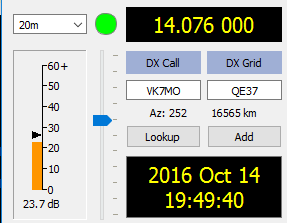
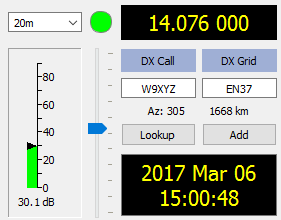
Code cleanup following level meter changes.  New screen shot for main-left controls.
git-svn-id: svn+ssh://svn.code.sf.net/p/wsjt/wsjt/branches/wsjtx@7597 ab8295b8-cf94-4d9e-aec4-7959e3be5d79

diff --git a/mainwindow.cpp b/mainwindow.cpp
@@ -66,7 +66,8 @@
 extern "C" {
   //----------------------------------------------------- C and Fortran routines
   void symspec_(struct dec_data *, int* k, int* ntrperiod, int* nsps, int* ingain,
-                int* minw, float* px, float s[], float* df3, int* nhsym, int* npts8, float *rmsnogain, float *m_pxmax);
+                int* minw, float* px, float s[], float* df3, int* nhsym, int* npts8,
+                float *m_pxmax);
 
   void hspec_(short int d2[], int* k, int* nutc0, int* ntrperiod, int* nrxfreq, int* ntol,
               bool* bmsk144, bool* bcontest, bool* btrain, double const pcoeffs[], int* ingain,
@@ -266,7 +267,6 @@ MainWindow::MainWindow(QDir const& temp_directory, bool multiple,
   m_ihsym {0},
   m_nzap {0},
   m_px {0.0},
-  m_rmsNoGain {0.0},
   m_iptt0 {0},
   m_btxok0 {false},
   m_nsendingsh {0},
@@ -1162,13 +1162,10 @@ void MainWindow::dataSink(qint64 frames)
   int nsps=m_nsps;
   if(m_bFastMode) nsps=6912;
   int nsmo=m_wideGraph->smoothYellow()-1;
-  symspec_(&dec_data,&k,&trmin,&nsps,&m_inGain,&nsmo,&m_px,s,&m_df3,&m_ihsym,&m_npts8,&m_rmsNoGain,&m_pxmax);
+  symspec_(&dec_data,&k,&trmin,&nsps,&m_inGain,&nsmo,&m_px,s,&m_df3,&m_ihsym,&m_npts8,&m_pxmax);
   if(m_mode=="WSPR") wspr_downsample_(dec_data.d2,&k);
   if(m_ihsym <=0) return;
-  QString t;
-  m_pctZap=m_nzap*100.0/m_nsps; // TODO: this is currently redundant
-  t.sprintf(" Rx noise: %5.1f ",m_px);
-  if (ui) ui->signal_meter_widget->setValue(m_rmsNoGain,m_pxmax); // Update thermometer
+  if(ui) ui->signal_meter_widget->setValue(m_px,m_pxmax); // Update thermometer
   if(m_monitoring || m_diskData) {
     m_wideGraph->dataSink2(s,m_df3,m_ihsym,m_diskData);
   }

diff --git a/mainwindow.h b/mainwindow.h
@@ -439,13 +439,11 @@ private:
   bool    m_bDoubleClicked;
   bool    m_bHideControls;
 
-  float   m_pctZap;
   int			m_ihsym;
   int			m_nzap;
   int			m_npts8;
   float		m_px;
-  float     m_pxmax;
-  float     m_rmsNoGain;
+  float   m_pxmax;
   float		m_df3;
   int			m_iptt0;
   bool		m_btxok0;
